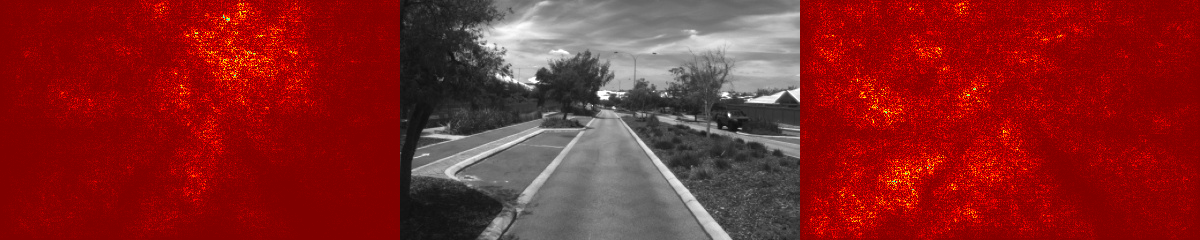
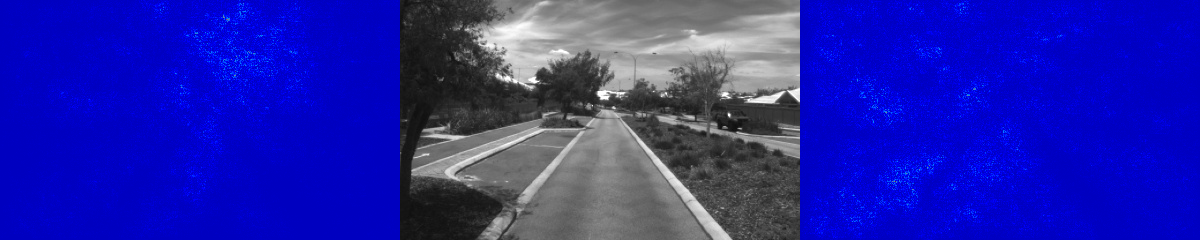
change saliency to blue background

diff --git a/saliency_maps.py b/saliency_maps.py
@@ -76,13 +76,15 @@ speed_output, _ = base_model(input_tensor)
 speed_output.backward(torch.ones_like(speed_output))
 speed_saliency = input_tensor.grad.data.abs().squeeze().cpu().numpy()
 
-# === Process saliency maps ===
+# === Process saliency maps (now with eric colour style) ===
 def process_saliency(raw):
     if raw.ndim == 3:
         raw = np.mean(raw, axis=0)
     raw = (raw - raw.min()) / (raw.max() - raw.min() + 1e-8)
     saliency_colored = cv2.applyColorMap(np.uint8(255 * raw), cv2.COLORMAP_JET)
-    return cv2.cvtColor(saliency_colored, cv2.COLOR_BGR2RGB)
+    blue_base = np.full_like(saliency_colored, (255, 0, 0))  # BGR blue
+    return cv2.addWeighted(blue_base, 0.5, saliency_colored, 0.5, 0)
+
 
 saliency_steering = process_saliency(steering_saliency)
 saliency_speed = process_saliency(speed_saliency)
